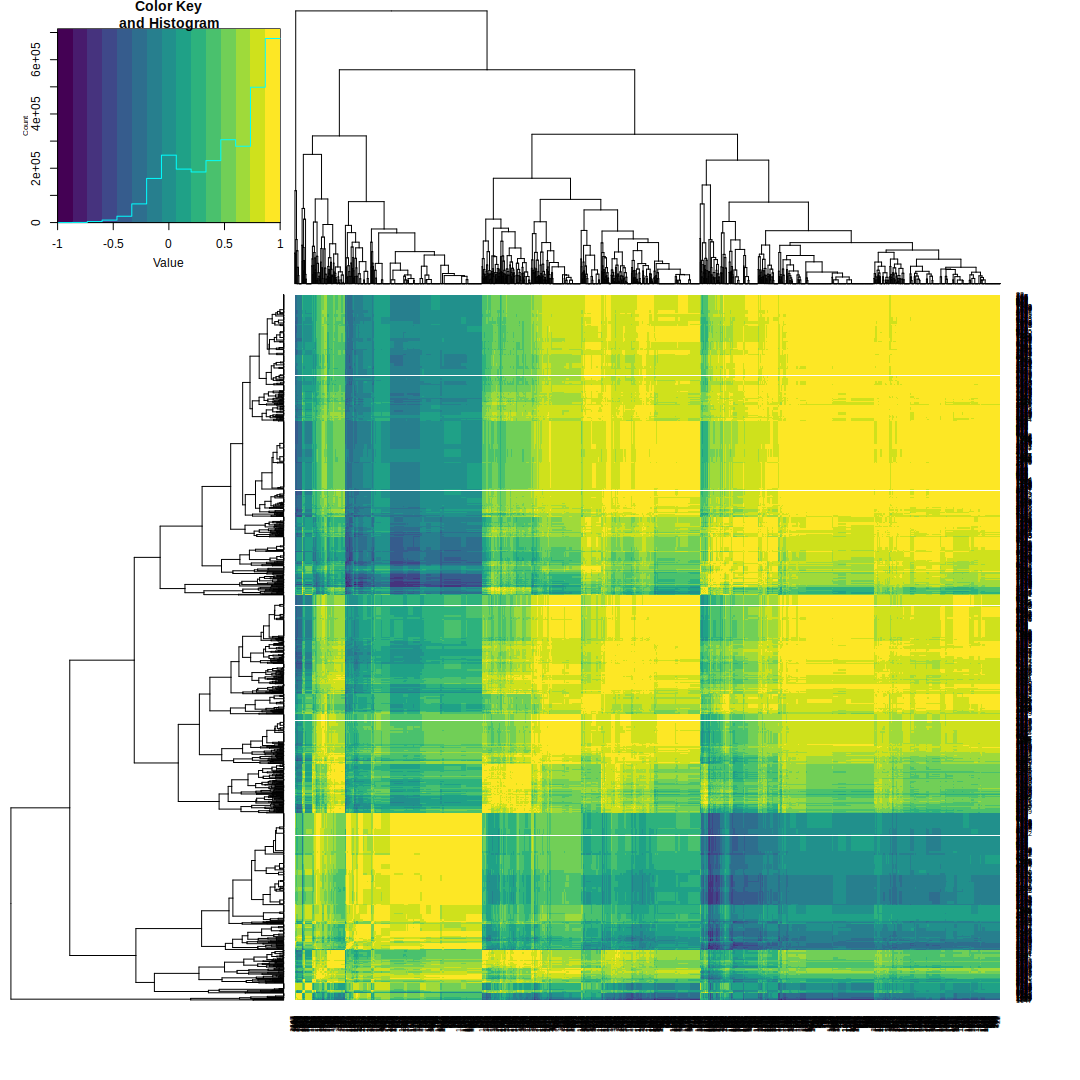
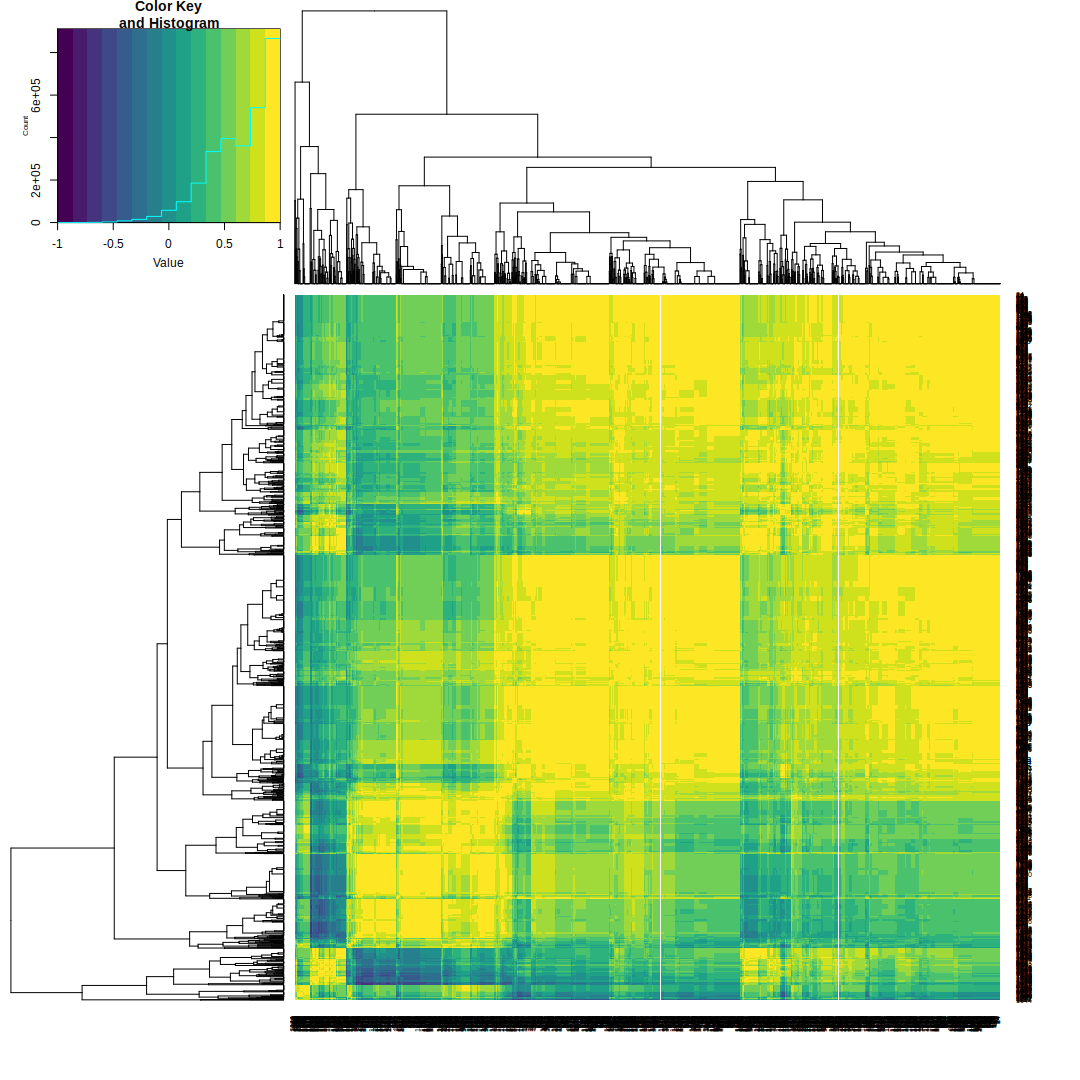
Renamed variables to indicate which table they came from

diff --git a/README.md b/README.md
@@ -371,12 +371,13 @@ Combine Datasets
 # Behavior and health services
 bhs_collapsed <- bhs %>%
     group_by(mci) %>%
-    summarize(num_visits=n(),
-              num_unique_providers=n_distinct(PRVDR_NAME))
+    summarize(bhs_num_visits=n(),
+              bhs_num_unique_providers=n_distinct(PRVDR_NAME))
               #county_tot=sum(CNTY_TOT),
               #total_units=sum(TOT_UNITS))
 
 # drop INVLV and birthdate columns
+# TODO: add duration in CYF?
 cyf_collapsed <- cyf %>% 
     select(-CAS_ID, -CL_ID, -BRTH_DT, -starts_with('INVLV'))
 
@@ -384,13 +385,13 @@ cyf_collapsed <- cyf %>%
 cyf_collapsed <- cyf_collapsed[!duplicated(cyf_collapsed$mci),]
 
 # Shelters
+#min_stay=min(DURATION_OF_STAY),
+#max_stay=max(DURATION_OF_STAY),
 shelters_collapsed <- shelters %>%
     group_by(mci) %>%
-    summarize(num_shelter_stays=n(),
-              num_unique_hud_proj_types=n_distinct(HUD_PROJECT_TYPE),
-              min_stay=min(DURATION_OF_STAY),
-              avg_stay=median(DURATION_OF_STAY),
-              max_stay=max(DURATION_OF_STAY))
+    summarize(shelter_num_stays=n(),
+              shelter_num_unique_hud_types=n_distinct(HUD_PROJECT_TYPE),
+              shelter_avg_stay=median(DURATION_OF_STAY))
 
 # Combined dataset
 dat <- merge(merge(bhs_collapsed, cyf_collapsed, by='mci'), 
@@ -399,11 +400,15 @@ dat <- merge(merge(bhs_collapsed, cyf_collapsed, by='mci'),
 # Drop the two rows with NA's
 dat <- dat[complete.cases(dat),]
 
+dat <- dat %>% filter(shelter_avg_stay < 5000)
+
+# Remove entries with values outside of the expected range
+
 # Drop outliers detected in PCA plot
 # 100050347 - min_stay = 730488
 # 100308371 - total_units 23,468
 # 1000049489 - min_stay 32,872
-dat <- dat[!dat$mci %in% c(1000050347, 1000308371, 1000049489),]
+#dat <- dat[!dat$mci %in% c(1000050347, 1000308371, 1000049489, 1000288792),]
 ```
 
 Variable correlation heatmap
@@ -419,7 +424,7 @@ dat_numeric <- dat_numeric[,2:ncol(dat_numeric)]
 dat_numeric <- as.matrix(dat_numeric)
 
 cor_mat <- cor(dat_numeric, method='spearman')
-heatmap.2(cor_mat, trace='none', col=viridis)
+heatmap.2(cor_mat, trace='none', col=viridis, margin=c(16,16))
 ```
 
 ![](README_files/figure-markdown_github/variable_heatmap-1.png)
